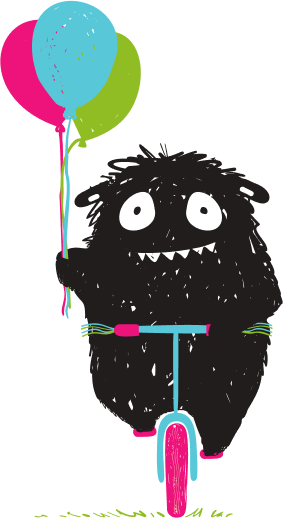
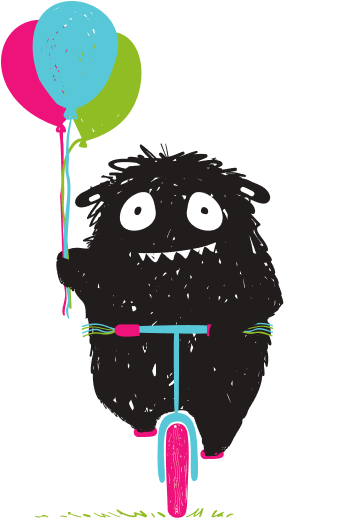
fix(mutnuachi): fix some of the Mutunachi. Get them centered and normalize their size

diff --git a/src/components/Mutunachi/Mutunachi.tsx b/src/components/Mutunachi/Mutunachi.tsx
@@ -16,13 +16,14 @@ import m8 from './assets/mutunachi_8.png';
 import m9 from './assets/mutunachi_9.png';
 import m10 from './assets/mutunachi_10.png';
 import m11 from './assets/mutunachi_11.png';
-import m12 from './assets/mutunachi_ice_cream_and_baloons.png';
+import m12 from './assets/mutunachi_12.png';
 import m13 from './assets/mutunachi_13.png';
 import m14 from './assets/mutunachi_14.png';
 import m15 from './assets/mutunachi_15.png';
 import m16 from './assets/mutunachi_16.png';
 import m17 from './assets/mutunachi_17.png';
 import m18 from './assets/mutunachi_18.png';
+import m19 from './assets/mutunachi_19.png';
 
 const map: {[k: string]: unknown} = {
   '0': m0,
@@ -44,6 +45,7 @@ const map: {[k: string]: unknown} = {
   '16': m16,
   '17': m17,
   '18': m18,
+  '19': m19,
 };
 
 export type MutunachiProps = React.DetailedHTMLProps<

diff --git a/src/components/Mutunachi/Mutunachi.story.tsx b/src/components/Mutunachi/Mutunachi.story.tsx
@@ -34,5 +34,6 @@ export const defaultStory = () => (
     <Mutunachi mid={16} style={{ width: '120px' }} />
     <Mutunachi mid={17} style={{ width: '120px' }} />
     <Mutunachi mid={18} style={{ width: '120px' }} />
+    <Mutunachi mid={19} style={{ width: '120px' }} />
   </div>
 );
